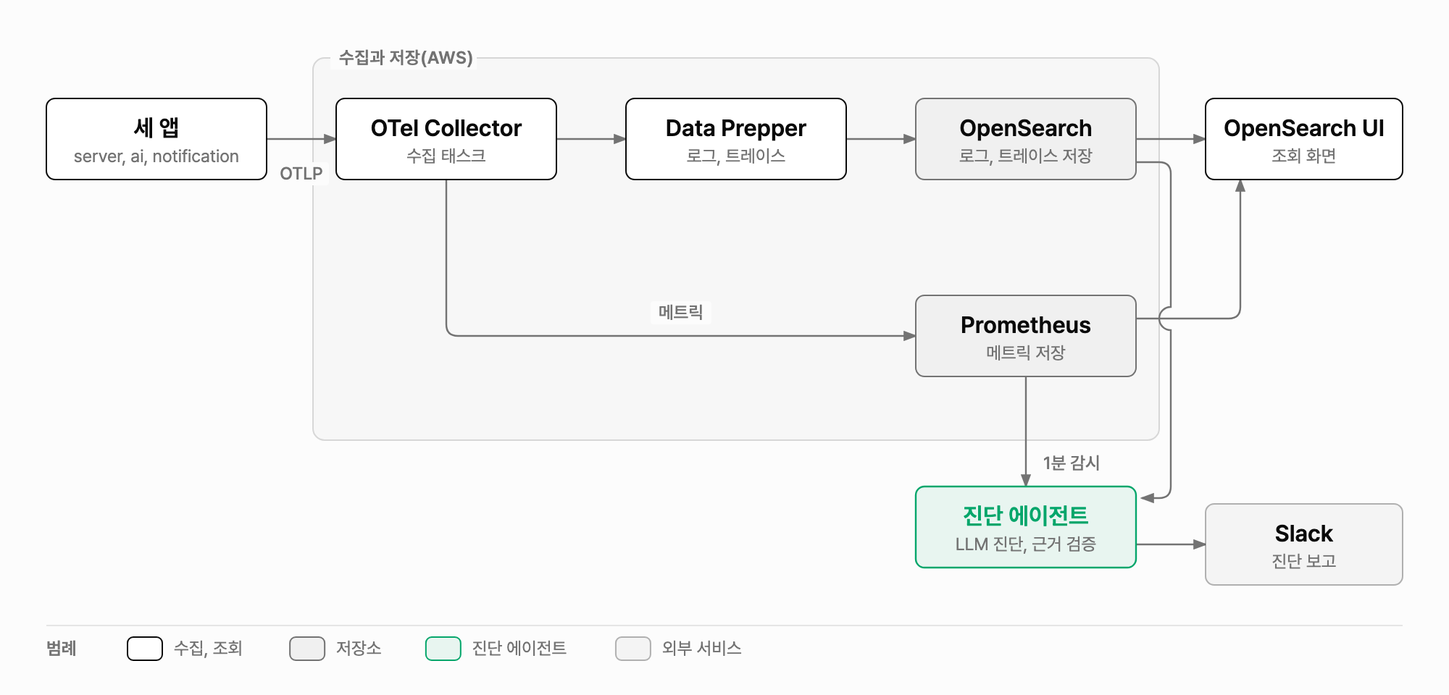
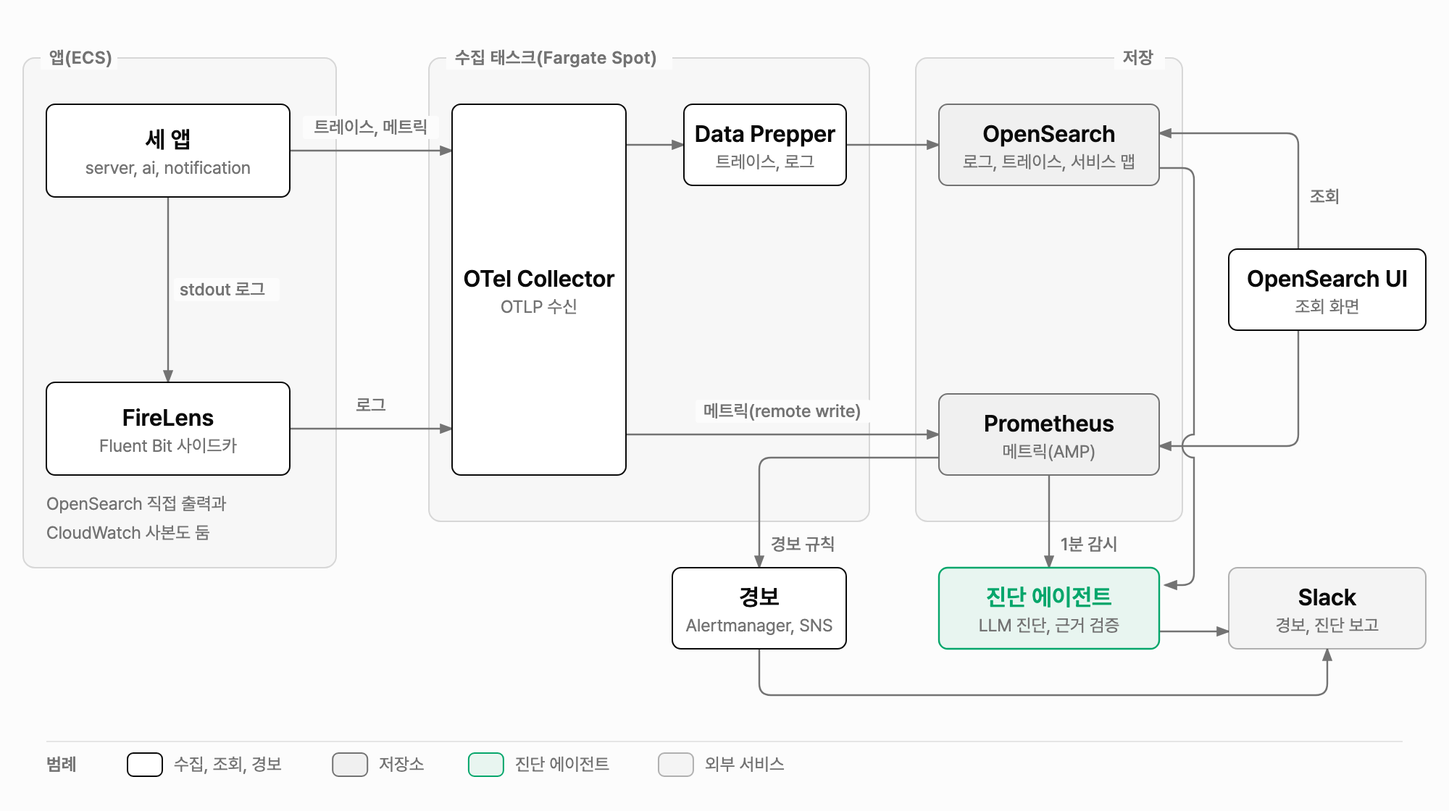
[KNK-2119] Docs: README 수정 3차(배지, 인프라 이력 토글, 도메인별 테이블, CI/CD와 관측 그림, 긴급 수정)
- 인프라 절은 Ver.6을 펼치고 Ver.1~5는 토글 안 발전 과정으로 둠
- 관측 그림을 OpenSearch Observability Stack 배치와 2026-11-14 terraform 구성에 맞춰 다시 그림
- ERD 아래에 64개 테이블의 도메인별 표를 두고 형상 관리에 긴급 수정 경로를 적음

diff --git a/docs/diagrams/cicd-pipeline.html b/docs/diagrams/cicd-pipeline.html
@@ -1,1 +1,1 @@
-<!doctype html><html lang="ko"><head><meta charset="utf-8"><title>CI/CD 파이프라인</title><link rel="stylesheet" href="https://cdn.jsdelivr.net/gh/orioncactus/pretendard@v1.3.9/dist/web/variable/pretendardvariable.min.css"><link href="https://fonts.googleapis.com/css2?family=Geist+Mono:wght@400;500;600&display=swap" rel="stylesheet"><style>body{margin:0;background:#fcfcfc;font-family:'Pretendard Variable', Pretendard, 'Apple SD Gothic Neo', sans-serif;color:#0a0a0a}header{max-width:1000px;margin:32px auto 8px;padding:0 16px}h1{font-size:24px;margin:0 0 4px}p{color:#737373;margin:0}main{max-width:1000px;margin:0 auto 40px}</style></head><body><header><h1>CI/CD 파이프라인</h1><p>레지스트리가 검사와 빌드, 배포를 잇는다</p></header><main><svg xmlns="http://www.w3.org/2000/svg" viewBox="0 0 1000 584" width="1000" height="584" role="img" aria-labelledby="cicd-pipeline-title cicd-pipeline-desc"><title id="cicd-pipeline-title">CI/CD 파이프라인</title><desc id="cicd-pipeline-desc">PR 검사와 이미지 빌드, 레지스트리, 최신 커밋 확인, 무중단 교체, 헬스와 스모크, latest 태그 이동과 되돌리기로 이어지는 흐름</desc><defs><marker id="cicd-pipeline-arrow" markerWidth="8" markerHeight="6" refX="7" refY="3" orient="auto"><polygon points="0 0, 8 3, 0 6" fill="#737373"/></marker><marker id="cicd-pipeline-arrow-accent" markerWidth="8" markerHeight="6" refX="7" refY="3" orient="auto"><polygon points="0 0, 8 3, 0 6" fill="#05a66b"/></marker><marker id="cicd-pipeline-arrow-link" markerWidth="8" markerHeight="6" refX="7" refY="3" orient="auto"><polygon points="0 0, 8 3, 0 6" fill="#1f8a65"/></marker></defs><rect width="100%" height="100%" fill="#fcfcfc"/><rect x="16" y="40" width="512" height="464" rx="8" fill="rgba(10,10,10,0.02)" stroke="rgba(10,10,10,0.14)" stroke-width="1"/><rect x="28" y="32" width="72" height="16" fill="#fcfcfc"/><text x="34" y="44" font-family="'Pretendard Variable', Pretendard, 'Apple SD Gothic Neo', sans-serif" font-size="12" font-weight="600" fill="#737373" letter-spacing="0.02em">검사와 빌드</text><rect x="560" y="40" width="424" height="464" rx="8" fill="rgba(10,10,10,0.02)" stroke="rgba(10,10,10,0.14)" stroke-width="1"/><rect x="937" y="32" width="35" height="16" fill="#fcfcfc"/><text x="943" y="44" font-family="'Pretendard Variable', Pretendard, 'Apple SD Gothic Neo', sans-serif" font-size="12" font-weight="600" fill="#737373" letter-spacing="0.02em">배포</text><path d="M 136,120 L 160,120" fill="none" stroke="#737373" stroke-width="1.2" marker-end="url(#cicd-pipeline-arrow)"/><path d="M 104,144 L 104,224 Q 104,232 112,232 L 160,232" fill="none" stroke="#737373" stroke-width="1.2" marker-end="url(#cicd-pipeline-arrow)"/><path d="M 72,144 L 72,336 Q 72,344 80,344 L 160,344" fill="none" stroke="#737373" stroke-width="1.2" marker-end="url(#cicd-pipeline-arrow)"/><path d="M 280,120 L 304,120" fill="none" stroke="#737373" stroke-width="1.2" marker-end="url(#cicd-pipeline-arrow)"/><path d="M 440,120 L 472,120" fill="none" stroke="#737373" stroke-width="1.2" marker-end="url(#cicd-pipeline-arrow)"/><path d="M 600,120 L 648,120" fill="none" stroke="#737373" stroke-width="1.2" marker-end="url(#cicd-pipeline-arrow)"/><path d="M 760,120 L 816,120" fill="none" stroke="#737373" stroke-width="1.2" marker-end="url(#cicd-pipeline-arrow)"/><path d="M 704,152 L 704,208" fill="none" stroke="#737373" stroke-width="1.2" marker-end="url(#cicd-pipeline-arrow)"/><path d="M 704,264 L 704,312" fill="none" stroke="#737373" stroke-width="1.2" marker-end="url(#cicd-pipeline-arrow)"/><path d="M 760,344 L 816,344" fill="none" stroke="#737373" stroke-width="1.2" marker-end="url(#cicd-pipeline-arrow)"/><path d="M 704,376 L 704,424" fill="none" stroke="#737373" stroke-width="1.2" stroke-dasharray="5,4" marker-end="url(#cicd-pipeline-arrow)"/><rect x="40" y="96" width="96" height="48" rx="24.0" fill="#fcfcfc"/><rect x="40" y="96" width="96" height="48" rx="24.0" fill="rgba(115,115,115,0.10)" stroke="#b3b3b3" stroke-width="1"/><text x="88" y="126" text-anchor="middle" font-family="'Pretendard Variable', Pretendard, 'Apple SD Gothic Neo', sans-serif" font-size="16" font-weight="600" fill="#0a0a0a">PR</text><rect x="160" y="92" width="120" height="56" rx="6" fill="#fcfcfc"/><rect x="160" y="92" width="120" height="56" rx="6" fill="#ffffff" stroke="#0a0a0a" stroke-width="1"/><text x="220" y="118" text-anchor="middle" font-family="'Pretendard Variable', Pretendard, 'Apple SD Gothic Neo', sans-serif" font-size="16" font-weight="600" fill="#0a0a0a">테스트</text><text x="220" y="136" text-anchor="middle" font-family="'Pretendard Variable', Pretendard, 'Apple SD Gothic Neo', sans-serif" font-size="12" fill="#737373">H2, Testcontainers</text><rect x="160" y="204" width="120" height="56" rx="6" fill="#fcfcfc"/><rect x="160" y="204" width="120" height="56" rx="6" fill="#ffffff" stroke="#0a0a0a" stroke-width="1"/><text x="220" y="230" text-anchor="middle" font-family="'Pretendard Variable', Pretendard, 'Apple SD Gothic Neo', sans-serif" font-size="16" font-weight="600" fill="#0a0a0a">보안 스캔</text><text x="220" y="248" text-anchor="middle" font-family="'Pretendard Variable', Pretendard, 'Apple SD Gothic Neo', sans-serif" font-size="12" fill="#737373">gitleaks, CodeQL</text><rect x="160" y="316" width="120" height="56" rx="6" fill="#fcfcfc"/><rect x="160" y="316" width="120" height="56" rx="6" fill="#ffffff" stroke="#0a0a0a" stroke-width="1"/><text x="220" y="342" text-anchor="middle" font-family="'Pretendard Variable', Pretendard, 'Apple SD Gothic Neo', sans-serif" font-size="16" font-weight="600" fill="#0a0a0a">DB 문서 검사</text><text x="220" y="360" text-anchor="middle" font-family="'Pretendard Variable', Pretendard, 'Apple SD Gothic Neo', sans-serif" font-size="12" fill="#737373">tbls diff</text><rect x="304" y="92" width="136" height="56" rx="6" fill="#fcfcfc"/><rect x="304" y="92" width="136" height="56" rx="6" fill="#ffffff" stroke="#0a0a0a" stroke-width="1"/><text x="372" y="118" text-anchor="middle" font-family="'Pretendard Variable', Pretendard, 'Apple SD Gothic Neo', sans-serif" font-size="16" font-weight="600" fill="#0a0a0a">이미지 빌드</text><text x="372" y="136" text-anchor="middle" font-family="'Pretendard Variable', Pretendard, 'Apple SD Gothic Neo', sans-serif" font-size="12" fill="#737373">amd64, arm64</text><rect x="472" y="92" width="128" height="56" rx="6" fill="#fcfcfc"/><rect x="472" y="92" width="128" height="56" rx="6" fill="rgba(10,10,10,0.05)" stroke="#737373" stroke-width="1"/><text x="536" y="118" text-anchor="middle" font-family="'Pretendard Variable', Pretendard, 'Apple SD Gothic Neo', sans-serif" font-size="16" font-weight="600" fill="#0a0a0a">레지스트리</text><text x="536" y="136" text-anchor="middle" font-family="'Pretendard Variable', Pretendard, 'Apple SD Gothic Neo', sans-serif" font-size="12" fill="#737373">불변 태그 sha7</text><polygon points="704,88.0 760.0,120 704,152.0 648.0,120" fill="#fcfcfc"/><polygon points="704,88.0 760.0,120 704,152.0 648.0,120" fill="#ffffff" stroke="#0a0a0a" stroke-width="1"/><text x="704" y="125" text-anchor="middle" font-family="'Pretendard Variable', Pretendard, 'Apple SD Gothic Neo', sans-serif" font-size="14" font-weight="600" fill="#0a0a0a">최신 커밋?</text><rect x="816" y="92" width="152" height="56" rx="6" fill="#fcfcfc"/><rect x="816" y="92" width="152" height="56" rx="6" fill="rgba(10,10,10,0.02)" stroke="rgba(10,10,10,0.35)" stroke-width="1" stroke-dasharray="4,3"/><text x="892" y="118" text-anchor="middle" font-family="'Pretendard Variable', Pretendard, 'Apple SD Gothic Neo', sans-serif" font-size="16" font-weight="600" fill="#0a0a0a">건너뜀</text><text x="892" y="136" text-anchor="middle" font-family="'Pretendard Variable', Pretendard, 'Apple SD Gothic Neo', sans-serif" font-size="12" fill="#737373">최신 커밋 실행이 배포</text><rect x="632" y="208" width="144" height="56" rx="6" fill="#fcfcfc"/><rect x="632" y="208" width="144" height="56" rx="6" fill="#ffffff" stroke="#0a0a0a" stroke-width="1"/><text x="704" y="234" text-anchor="middle" font-family="'Pretendard Variable', Pretendard, 'Apple SD Gothic Neo', sans-serif" font-size="16" font-weight="600" fill="#0a0a0a">무중단 교체</text><text x="704" y="252" text-anchor="middle" font-family="'Pretendard Variable', Pretendard, 'Apple SD Gothic Neo', sans-serif" font-size="12" fill="#737373">헬스 통과 뒤 전환</text><polygon points="704,312.0 760.0,344 704,376.0 648.0,344" fill="#fcfcfc"/><polygon points="704,312.0 760.0,344 704,376.0 648.0,344" fill="#ffffff" stroke="#0a0a0a" stroke-width="1"/><text x="704" y="349" text-anchor="middle" font-family="'Pretendard Variable', Pretendard, 'Apple SD Gothic Neo', sans-serif" font-size="14" font-weight="600" fill="#0a0a0a">헬스, 스모크</text><rect x="816" y="316" width="152" height="56" rx="6" fill="#fcfcfc"/><rect x="816" y="316" width="152" height="56" rx="6" fill="rgba(5,166,107,0.08)" stroke="#05a66b" stroke-width="1.2"/><text x="892" y="342" text-anchor="middle" font-family="'Pretendard Variable', Pretendard, 'Apple SD Gothic Neo', sans-serif" font-size="16" font-weight="600" fill="#05a66b">latest 태그 이동</text><text x="892" y="360" text-anchor="middle" font-family="'Pretendard Variable', Pretendard, 'Apple SD Gothic Neo', sans-serif" font-size="12" fill="#737373">성공한 이미지만</text><rect x="632" y="424" width="144" height="56" rx="6" fill="#fcfcfc"/><rect x="632" y="424" width="144" height="56" rx="6" fill="rgba(10,10,10,0.02)" stroke="rgba(10,10,10,0.35)" stroke-width="1" stroke-dasharray="4,3"/><text x="704" y="450" text-anchor="middle" font-family="'Pretendard Variable', Pretendard, 'Apple SD Gothic Neo', sans-serif" font-size="16" font-weight="600" fill="#0a0a0a">되돌리기</text><text x="704" y="468" text-anchor="middle" font-family="'Pretendard Variable', Pretendard, 'Apple SD Gothic Neo', sans-serif" font-size="12" fill="#737373">직전 이미지로</text><rect x="767" y="96" width="42" height="16" rx="2" fill="#fcfcfc"/><text x="788" y="108" text-anchor="middle" font-family="'Pretendard Variable', Pretendard, 'Apple SD Gothic Neo', sans-serif" font-size="12" font-weight="500" fill="#737373">아니오</text><rect x="712" y="176" width="19" height="16" rx="2" fill="#fcfcfc"/><text x="716" y="188" text-anchor="start" font-family="'Pretendard Variable', Pretendard, 'Apple SD Gothic Neo', sans-serif" font-size="12" font-weight="500" fill="#737373">예</text><rect x="773" y="320" width="31" height="16" rx="2" fill="#fcfcfc"/><text x="788" y="332" text-anchor="middle" font-family="'Pretendard Variable', Pretendard, 'Apple SD Gothic Neo', sans-serif" font-size="12" font-weight="500" fill="#737373">통과</text><rect x="712" y="392" width="31" height="16" rx="2" fill="#fcfcfc"/><text x="716" y="404" text-anchor="start" font-family="'Pretendard Variable', Pretendard, 'Apple SD Gothic Neo', sans-serif" font-size="12" font-weight="500" fill="#737373">실패</text><line x1="32" y1="536" x2="968" y2="536" stroke="rgba(10,10,10,0.12)" stroke-width="0.8"/><text x="32" y="556" font-family="'Pretendard Variable', Pretendard, 'Apple SD Gothic Neo', sans-serif" font-size="12" font-weight="600" fill="#737373">범례</text><rect x="88" y="544" width="24" height="16" rx="4" fill="#ffffff" stroke="#0a0a0a" stroke-width="1"/><text x="120" y="556" font-family="'Pretendard Variable', Pretendard, 'Apple SD Gothic Neo', sans-serif" font-size="12" fill="#737373">단계</text><rect x="170.56" y="544" width="24" height="16" rx="4" fill="rgba(10,10,10,0.05)" stroke="#737373" stroke-width="1"/><text x="202.56" y="556" font-family="'Pretendard Variable', Pretendard, 'Apple SD Gothic Neo', sans-serif" font-size="12" fill="#737373">산출물</text><rect x="264.4" y="544" width="24" height="16" rx="4" fill="rgba(10,10,10,0.02)" stroke="rgba(10,10,10,0.35)" stroke-width="1" stroke-dasharray="4,3"/><text x="296.4" y="556" font-family="'Pretendard Variable', Pretendard, 'Apple SD Gothic Neo', sans-serif" font-size="12" fill="#737373">조건부 단계</text><rect x="384.15999999999997" y="544" width="24" height="16" rx="4" fill="rgba(5,166,107,0.08)" stroke="#05a66b" stroke-width="1"/><text x="416.15999999999997" y="556" font-family="'Pretendard Variable', Pretendard, 'Apple SD Gothic Neo', sans-serif" font-size="12" fill="#737373">배포 완료</text></svg></main></body></html>
+<!doctype html><html lang="ko"><head><meta charset="utf-8"><title>CI/CD 파이프라인</title><link rel="stylesheet" href="https://cdn.jsdelivr.net/gh/orioncactus/pretendard@v1.3.9/dist/web/variable/pretendardvariable.min.css"><link href="https://fonts.googleapis.com/css2?family=Geist+Mono:wght@400;500;600&display=swap" rel="stylesheet"><style>body{margin:0;background:#fcfcfc;font-family:'Pretendard Variable', Pretendard, 'Apple SD Gothic Neo', sans-serif;color:#0a0a0a}header{max-width:1000px;margin:32px auto 8px;padding:0 16px}h1{font-size:24px;margin:0 0 4px}p{color:#737373;margin:0}main{max-width:1000px;margin:0 auto 40px}</style></head><body><header><h1>CI/CD 파이프라인</h1><p>레지스트리가 검사와 빌드, 배포를 잇는다</p></header><main><svg xmlns="http://www.w3.org/2000/svg" viewBox="0 0 1000 584" width="1000" height="584" role="img" aria-labelledby="cicd-pipeline-title cicd-pipeline-desc"><title id="cicd-pipeline-title">CI/CD 파이프라인</title><desc id="cicd-pipeline-desc">PR 검사와 이미지 빌드, 레지스트리, 최신 커밋 확인, 무중단 교체, 헬스와 스모크, latest 태그 이동과 되돌리기로 이어지는 흐름</desc><defs><marker id="cicd-pipeline-arrow" markerWidth="8" markerHeight="6" refX="7" refY="3" orient="auto"><polygon points="0 0, 8 3, 0 6" fill="#737373"/></marker><marker id="cicd-pipeline-arrow-accent" markerWidth="8" markerHeight="6" refX="7" refY="3" orient="auto"><polygon points="0 0, 8 3, 0 6" fill="#05a66b"/></marker><marker id="cicd-pipeline-arrow-link" markerWidth="8" markerHeight="6" refX="7" refY="3" orient="auto"><polygon points="0 0, 8 3, 0 6" fill="#1f8a65"/></marker></defs><rect width="100%" height="100%" fill="#fcfcfc"/><rect x="16" y="40" width="440" height="464" rx="8" fill="rgba(10,10,10,0.02)" stroke="rgba(10,10,10,0.14)" stroke-width="1"/><rect x="28" y="32" width="72" height="16" fill="#fcfcfc"/><text x="34" y="44" font-family="'Pretendard Variable', Pretendard, 'Apple SD Gothic Neo', sans-serif" font-size="12" font-weight="600" fill="#737373" letter-spacing="0.02em">검사와 빌드</text><rect x="632" y="40" width="352" height="464" rx="8" fill="rgba(10,10,10,0.02)" stroke="rgba(10,10,10,0.14)" stroke-width="1"/><rect x="937" y="32" width="35" height="16" fill="#fcfcfc"/><text x="943" y="44" font-family="'Pretendard Variable', Pretendard, 'Apple SD Gothic Neo', sans-serif" font-size="12" font-weight="600" fill="#737373" letter-spacing="0.02em">배포</text><path d="M 112,120 L 160,120" fill="none" stroke="#737373" stroke-width="1.2" marker-end="url(#cicd-pipeline-arrow)"/><path d="M 112,232 L 160,232" fill="none" stroke="#737373" stroke-width="1.2" marker-end="url(#cicd-pipeline-arrow)"/><path d="M 112,344 L 160,344" fill="none" stroke="#737373" stroke-width="1.2" marker-end="url(#cicd-pipeline-arrow)"/><path d="M 280,120 L 304,120" fill="none" stroke="#737373" stroke-width="1.2" marker-end="url(#cicd-pipeline-arrow)"/><path d="M 440,120 L 488,120" fill="none" stroke="#737373" stroke-width="1.2" marker-end="url(#cicd-pipeline-arrow)"/><path d="M 600,120 L 648,120" fill="none" stroke="#737373" stroke-width="1.2" marker-end="url(#cicd-pipeline-arrow)"/><path d="M 760,120 L 816,120" fill="none" stroke="#737373" stroke-width="1.2" marker-end="url(#cicd-pipeline-arrow)"/><path d="M 704,152 L 704,208" fill="none" stroke="#737373" stroke-width="1.2" marker-end="url(#cicd-pipeline-arrow)"/><path d="M 704,264 L 704,312" fill="none" stroke="#737373" stroke-width="1.2" marker-end="url(#cicd-pipeline-arrow)"/><path d="M 760,344 L 816,344" fill="none" stroke="#737373" stroke-width="1.2" marker-end="url(#cicd-pipeline-arrow)"/><path d="M 704,376 L 704,424" fill="none" stroke="#737373" stroke-width="1.2" stroke-dasharray="5,4" marker-end="url(#cicd-pipeline-arrow)"/><rect x="40" y="92" width="72" height="280" rx="24" fill="#fcfcfc"/><rect x="40" y="92" width="72" height="280" rx="24" fill="rgba(115,115,115,0.10)" stroke="#b3b3b3" stroke-width="1"/><text x="76" y="238" text-anchor="middle" font-family="'Pretendard Variable', Pretendard, 'Apple SD Gothic Neo', sans-serif" font-size="16" font-weight="600" fill="#0a0a0a">PR</text><rect x="160" y="92" width="120" height="56" rx="6" fill="#fcfcfc"/><rect x="160" y="92" width="120" height="56" rx="6" fill="#ffffff" stroke="#0a0a0a" stroke-width="1"/><text x="220" y="118" text-anchor="middle" font-family="'Pretendard Variable', Pretendard, 'Apple SD Gothic Neo', sans-serif" font-size="16" font-weight="600" fill="#0a0a0a">테스트</text><text x="220" y="136" text-anchor="middle" font-family="'Pretendard Variable', Pretendard, 'Apple SD Gothic Neo', sans-serif" font-size="12" fill="#737373">H2, Testcontainers</text><rect x="160" y="204" width="120" height="56" rx="6" fill="#fcfcfc"/><rect x="160" y="204" width="120" height="56" rx="6" fill="#ffffff" stroke="#0a0a0a" stroke-width="1"/><text x="220" y="230" text-anchor="middle" font-family="'Pretendard Variable', Pretendard, 'Apple SD Gothic Neo', sans-serif" font-size="16" font-weight="600" fill="#0a0a0a">보안 스캔</text><text x="220" y="248" text-anchor="middle" font-family="'Pretendard Variable', Pretendard, 'Apple SD Gothic Neo', sans-serif" font-size="12" fill="#737373">gitleaks, CodeQL</text><rect x="160" y="316" width="120" height="56" rx="6" fill="#fcfcfc"/><rect x="160" y="316" width="120" height="56" rx="6" fill="#ffffff" stroke="#0a0a0a" stroke-width="1"/><text x="220" y="342" text-anchor="middle" font-family="'Pretendard Variable', Pretendard, 'Apple SD Gothic Neo', sans-serif" font-size="16" font-weight="600" fill="#0a0a0a">DB 문서 검사</text><text x="220" y="360" text-anchor="middle" font-family="'Pretendard Variable', Pretendard, 'Apple SD Gothic Neo', sans-serif" font-size="12" fill="#737373">tbls diff</text><rect x="304" y="92" width="136" height="56" rx="6" fill="#fcfcfc"/><rect x="304" y="92" width="136" height="56" rx="6" fill="#ffffff" stroke="#0a0a0a" stroke-width="1"/><text x="372" y="118" text-anchor="middle" font-family="'Pretendard Variable', Pretendard, 'Apple SD Gothic Neo', sans-serif" font-size="16" font-weight="600" fill="#0a0a0a">이미지 빌드</text><text x="372" y="136" text-anchor="middle" font-family="'Pretendard Variable', Pretendard, 'Apple SD Gothic Neo', sans-serif" font-size="12" fill="#737373">amd64, arm64</text><rect x="488" y="92" width="112" height="56" rx="6" fill="#fcfcfc"/><rect x="488" y="92" width="112" height="56" rx="6" fill="rgba(10,10,10,0.05)" stroke="#737373" stroke-width="1"/><text x="544" y="118" text-anchor="middle" font-family="'Pretendard Variable', Pretendard, 'Apple SD Gothic Neo', sans-serif" font-size="16" font-weight="600" fill="#0a0a0a">레지스트리</text><text x="544" y="136" text-anchor="middle" font-family="'Pretendard Variable', Pretendard, 'Apple SD Gothic Neo', sans-serif" font-size="12" fill="#737373">불변 태그 sha7</text><polygon points="704,88.0 760.0,120 704,152.0 648.0,120" fill="#fcfcfc"/><polygon points="704,88.0 760.0,120 704,152.0 648.0,120" fill="#ffffff" stroke="#0a0a0a" stroke-width="1"/><text x="704" y="125" text-anchor="middle" font-family="'Pretendard Variable', Pretendard, 'Apple SD Gothic Neo', sans-serif" font-size="14" font-weight="600" fill="#0a0a0a">최신 커밋?</text><rect x="816" y="92" width="152" height="56" rx="6" fill="#fcfcfc"/><rect x="816" y="92" width="152" height="56" rx="6" fill="rgba(10,10,10,0.02)" stroke="rgba(10,10,10,0.35)" stroke-width="1" stroke-dasharray="4,3"/><text x="892" y="118" text-anchor="middle" font-family="'Pretendard Variable', Pretendard, 'Apple SD Gothic Neo', sans-serif" font-size="16" font-weight="600" fill="#0a0a0a">건너뜀</text><text x="892" y="136" text-anchor="middle" font-family="'Pretendard Variable', Pretendard, 'Apple SD Gothic Neo', sans-serif" font-size="12" fill="#737373">최신 커밋 실행이 배포</text><rect x="632" y="208" width="144" height="56" rx="6" fill="#fcfcfc"/><rect x="632" y="208" width="144" height="56" rx="6" fill="#ffffff" stroke="#0a0a0a" stroke-width="1"/><text x="704" y="234" text-anchor="middle" font-family="'Pretendard Variable', Pretendard, 'Apple SD Gothic Neo', sans-serif" font-size="16" font-weight="600" fill="#0a0a0a">무중단 교체</text><text x="704" y="252" text-anchor="middle" font-family="'Pretendard Variable', Pretendard, 'Apple SD Gothic Neo', sans-serif" font-size="12" fill="#737373">헬스 통과 뒤 전환</text><polygon points="704,312.0 760.0,344 704,376.0 648.0,344" fill="#fcfcfc"/><polygon points="704,312.0 760.0,344 704,376.0 648.0,344" fill="#ffffff" stroke="#0a0a0a" stroke-width="1"/><text x="704" y="349" text-anchor="middle" font-family="'Pretendard Variable', Pretendard, 'Apple SD Gothic Neo', sans-serif" font-size="14" font-weight="600" fill="#0a0a0a">헬스, 스모크</text><rect x="816" y="316" width="152" height="56" rx="6" fill="#fcfcfc"/><rect x="816" y="316" width="152" height="56" rx="6" fill="rgba(5,166,107,0.08)" stroke="#05a66b" stroke-width="1.2"/><text x="892" y="342" text-anchor="middle" font-family="'Pretendard Variable', Pretendard, 'Apple SD Gothic Neo', sans-serif" font-size="16" font-weight="600" fill="#05a66b">latest 태그 이동</text><text x="892" y="360" text-anchor="middle" font-family="'Pretendard Variable', Pretendard, 'Apple SD Gothic Neo', sans-serif" font-size="12" fill="#737373">성공한 이미지만</text><rect x="632" y="424" width="144" height="56" rx="6" fill="#fcfcfc"/><rect x="632" y="424" width="144" height="56" rx="6" fill="rgba(10,10,10,0.02)" stroke="rgba(10,10,10,0.35)" stroke-width="1" stroke-dasharray="4,3"/><text x="704" y="450" text-anchor="middle" font-family="'Pretendard Variable', Pretendard, 'Apple SD Gothic Neo', sans-serif" font-size="16" font-weight="600" fill="#0a0a0a">되돌리기</text><text x="704" y="468" text-anchor="middle" font-family="'Pretendard Variable', Pretendard, 'Apple SD Gothic Neo', sans-serif" font-size="12" fill="#737373">직전 이미지로</text><rect x="767" y="96" width="42" height="16" rx="2" fill="#fcfcfc"/><text x="788" y="108" text-anchor="middle" font-family="'Pretendard Variable', Pretendard, 'Apple SD Gothic Neo', sans-serif" font-size="12" font-weight="500" fill="#737373">아니오</text><rect x="712" y="176" width="19" height="16" rx="2" fill="#fcfcfc"/><text x="716" y="188" text-anchor="start" font-family="'Pretendard Variable', Pretendard, 'Apple SD Gothic Neo', sans-serif" font-size="12" font-weight="500" fill="#737373">예</text><rect x="773" y="320" width="31" height="16" rx="2" fill="#fcfcfc"/><text x="788" y="332" text-anchor="middle" font-family="'Pretendard Variable', Pretendard, 'Apple SD Gothic Neo', sans-serif" font-size="12" font-weight="500" fill="#737373">통과</text><rect x="712" y="392" width="31" height="16" rx="2" fill="#fcfcfc"/><text x="716" y="404" text-anchor="start" font-family="'Pretendard Variable', Pretendard, 'Apple SD Gothic Neo', sans-serif" font-size="12" font-weight="500" fill="#737373">실패</text><line x1="32" y1="536" x2="968" y2="536" stroke="rgba(10,10,10,0.12)" stroke-width="0.8"/><text x="32" y="556" font-family="'Pretendard Variable', Pretendard, 'Apple SD Gothic Neo', sans-serif" font-size="12" font-weight="600" fill="#737373">범례</text><rect x="88" y="544" width="24" height="16" rx="4" fill="#ffffff" stroke="#0a0a0a" stroke-width="1"/><text x="120" y="556" font-family="'Pretendard Variable', Pretendard, 'Apple SD Gothic Neo', sans-serif" font-size="12" fill="#737373">단계</text><rect x="170.56" y="544" width="24" height="16" rx="4" fill="rgba(10,10,10,0.05)" stroke="#737373" stroke-width="1"/><text x="202.56" y="556" font-family="'Pretendard Variable', Pretendard, 'Apple SD Gothic Neo', sans-serif" font-size="12" fill="#737373">산출물</text><rect x="264.4" y="544" width="24" height="16" rx="4" fill="rgba(10,10,10,0.02)" stroke="rgba(10,10,10,0.35)" stroke-width="1" stroke-dasharray="4,3"/><text x="296.4" y="556" font-family="'Pretendard Variable', Pretendard, 'Apple SD Gothic Neo', sans-serif" font-size="12" fill="#737373">조건부 단계</text><rect x="384.15999999999997" y="544" width="24" height="16" rx="4" fill="rgba(5,166,107,0.08)" stroke="#05a66b" stroke-width="1"/><text x="416.15999999999997" y="556" font-family="'Pretendard Variable', Pretendard, 'Apple SD Gothic Neo', sans-serif" font-size="12" fill="#737373">배포 완료</text></svg></main></body></html>

diff --git a/docs/diagrams/observability.html b/docs/diagrams/observability.html
@@ -1,1 +1,1 @@
-<!doctype html><html lang="ko"><head><meta charset="utf-8"><title>관측과 장애 진단</title><link rel="stylesheet" href="https://cdn.jsdelivr.net/gh/orioncactus/pretendard@v1.3.9/dist/web/variable/pretendardvariable.min.css"><link href="https://fonts.googleapis.com/css2?family=Geist+Mono:wght@400;500;600&display=swap" rel="stylesheet"><style>body{margin:0;background:#fcfcfc;font-family:'Pretendard Variable', Pretendard, 'Apple SD Gothic Neo', sans-serif;color:#0a0a0a}header{max-width:1000px;margin:32px auto 8px;padding:0 16px}h1{font-size:24px;margin:0 0 4px}p{color:#737373;margin:0}main{max-width:1000px;margin:0 auto 40px}</style></head><body><header><h1>관측과 장애 진단</h1><p>2026년 11월 14일 기준</p></header><main><svg xmlns="http://www.w3.org/2000/svg" viewBox="0 0 1000 480" width="1000" height="480" role="img" aria-labelledby="observability-title observability-desc"><title id="observability-title">관측과 장애 진단</title><desc id="observability-desc">세 앱의 OTLP가 OTel Collector에서 로그, 트레이스와 메트릭으로 나뉘어 OpenSearch와 Prometheus에 저장되고, 조회 화면과 진단 에이전트, Slack 보고로 이어지는 흐름</desc><defs><marker id="observability-arrow" markerWidth="8" markerHeight="6" refX="7" refY="3" orient="auto"><polygon points="0 0, 8 3, 0 6" fill="#737373"/></marker><marker id="observability-arrow-accent" markerWidth="8" markerHeight="6" refX="7" refY="3" orient="auto"><polygon points="0 0, 8 3, 0 6" fill="#05a66b"/></marker><marker id="observability-arrow-link" markerWidth="8" markerHeight="6" refX="7" refY="3" orient="auto"><polygon points="0 0, 8 3, 0 6" fill="#1f8a65"/></marker></defs><rect width="100%" height="100%" fill="#fcfcfc"/><rect x="216" y="40" width="584" height="264" rx="8" fill="rgba(10,10,10,0.02)" stroke="rgba(10,10,10,0.14)" stroke-width="1"/><rect x="228" y="32" width="101" height="16" fill="#fcfcfc"/><text x="234" y="44" font-family="'Pretendard Variable', Pretendard, 'Apple SD Gothic Neo', sans-serif" font-size="12" font-weight="600" fill="#737373" letter-spacing="0.02em">수집과 저장(AWS)</text><path d="M 184,96 L 232,96" fill="none" stroke="#737373" stroke-width="1.2" marker-end="url(#observability-arrow)"/><path d="M 384,96 L 432,96" fill="none" stroke="#737373" stroke-width="1.2" marker-end="url(#observability-arrow)"/><path d="M 584,96 L 632,96" fill="none" stroke="#737373" stroke-width="1.2" marker-end="url(#observability-arrow)"/><path d="M 308,124 L 308,224 Q 308,232 316,232 L 632,232" fill="none" stroke="#737373" stroke-width="1.2" marker-end="url(#observability-arrow)"/><path d="M 784,96 L 832,96" fill="none" stroke="#737373" stroke-width="1.2" marker-end="url(#observability-arrow)"/><path d="M 784,220 L 848,220 Q 856,220 856,212 L 856,124" fill="none" stroke="#737373" stroke-width="1.2" marker-end="url(#observability-arrow)"/><path d="M 708,260 L 708,336" fill="none" stroke="#737373" stroke-width="1.2" marker-end="url(#observability-arrow)"/><path d="M 784,112 L 800,112 Q 808,112 808,120 L 808,212 A 8,8 0 0,0 808,228 L 808,336 Q 808,344 800,344 L 788,344" fill="none" stroke="#737373" stroke-width="1.2" marker-end="url(#observability-arrow)"/><path d="M 784,376 L 832,376" fill="none" stroke="#737373" stroke-width="1.2" marker-end="url(#observability-arrow)"/><rect x="32" y="68" width="152" height="56" rx="6" fill="#fcfcfc"/><rect x="32" y="68" width="152" height="56" rx="6" fill="#ffffff" stroke="#0a0a0a" stroke-width="1"/><text x="108" y="94" text-anchor="middle" font-family="'Pretendard Variable', Pretendard, 'Apple SD Gothic Neo', sans-serif" font-size="16" font-weight="600" fill="#0a0a0a">세 앱</text><text x="108" y="112" text-anchor="middle" font-family="'Pretendard Variable', Pretendard, 'Apple SD Gothic Neo', sans-serif" font-size="12" fill="#737373">server, ai, notification</text><rect x="232" y="68" width="152" height="56" rx="6" fill="#fcfcfc"/><rect x="232" y="68" width="152" height="56" rx="6" fill="#ffffff" stroke="#0a0a0a" stroke-width="1"/><text x="308" y="94" text-anchor="middle" font-family="'Pretendard Variable', Pretendard, 'Apple SD Gothic Neo', sans-serif" font-size="16" font-weight="600" fill="#0a0a0a">OTel Collector</text><text x="308" y="112" text-anchor="middle" font-family="'Pretendard Variable', Pretendard, 'Apple SD Gothic Neo', sans-serif" font-size="12" fill="#737373">수집 태스크</text><rect x="432" y="68" width="152" height="56" rx="6" fill="#fcfcfc"/><rect x="432" y="68" width="152" height="56" rx="6" fill="#ffffff" stroke="#0a0a0a" stroke-width="1"/><text x="508" y="94" text-anchor="middle" font-family="'Pretendard Variable', Pretendard, 'Apple SD Gothic Neo', sans-serif" font-size="16" font-weight="600" fill="#0a0a0a">Data Prepper</text><text x="508" y="112" text-anchor="middle" font-family="'Pretendard Variable', Pretendard, 'Apple SD Gothic Neo', sans-serif" font-size="12" fill="#737373">로그, 트레이스</text><rect x="632" y="68" width="152" height="56" rx="6" fill="#fcfcfc"/><rect x="632" y="68" width="152" height="56" rx="6" fill="rgba(10,10,10,0.05)" stroke="#737373" stroke-width="1"/><text x="708" y="94" text-anchor="middle" font-family="'Pretendard Variable', Pretendard, 'Apple SD Gothic Neo', sans-serif" font-size="16" font-weight="600" fill="#0a0a0a">OpenSearch</text><text x="708" y="112" text-anchor="middle" font-family="'Pretendard Variable', Pretendard, 'Apple SD Gothic Neo', sans-serif" font-size="12" fill="#737373">로그, 트레이스 저장</text><rect x="632" y="204" width="152" height="56" rx="6" fill="#fcfcfc"/><rect x="632" y="204" width="152" height="56" rx="6" fill="rgba(10,10,10,0.05)" stroke="#737373" stroke-width="1"/><text x="708" y="230" text-anchor="middle" font-family="'Pretendard Variable', Pretendard, 'Apple SD Gothic Neo', sans-serif" font-size="16" font-weight="600" fill="#0a0a0a">Prometheus</text><text x="708" y="248" text-anchor="middle" font-family="'Pretendard Variable', Pretendard, 'Apple SD Gothic Neo', sans-serif" font-size="12" fill="#737373">메트릭 저장</text><rect x="832" y="68" width="136" height="56" rx="6" fill="#fcfcfc"/><rect x="832" y="68" width="136" height="56" rx="6" fill="#ffffff" stroke="#0a0a0a" stroke-width="1"/><text x="900" y="94" text-anchor="middle" font-family="'Pretendard Variable', Pretendard, 'Apple SD Gothic Neo', sans-serif" font-size="16" font-weight="600" fill="#0a0a0a">OpenSearch UI</text><text x="900" y="112" text-anchor="middle" font-family="'Pretendard Variable', Pretendard, 'Apple SD Gothic Neo', sans-serif" font-size="12" fill="#737373">조회 화면</text><rect x="632" y="336" width="152" height="56" rx="6" fill="#fcfcfc"/><rect x="632" y="336" width="152" height="56" rx="6" fill="rgba(5,166,107,0.08)" stroke="#05a66b" stroke-width="1.2"/><text x="708" y="362" text-anchor="middle" font-family="'Pretendard Variable', Pretendard, 'Apple SD Gothic Neo', sans-serif" font-size="16" font-weight="600" fill="#05a66b">진단 에이전트</text><text x="708" y="380" text-anchor="middle" font-family="'Pretendard Variable', Pretendard, 'Apple SD Gothic Neo', sans-serif" font-size="12" fill="#737373">LLM 진단, 근거 검증</text><rect x="832" y="348" width="136" height="56" rx="6" fill="#fcfcfc"/><rect x="832" y="348" width="136" height="56" rx="6" fill="rgba(10,10,10,0.03)" stroke="rgba(10,10,10,0.30)" stroke-width="1"/><text x="900" y="374" text-anchor="middle" font-family="'Pretendard Variable', Pretendard, 'Apple SD Gothic Neo', sans-serif" font-size="16" font-weight="600" fill="#0a0a0a">Slack</text><text x="900" y="392" text-anchor="middle" font-family="'Pretendard Variable', Pretendard, 'Apple SD Gothic Neo', sans-serif" font-size="12" fill="#737373">진단 보고</text><rect x="189" y="112" width="38" height="16" rx="2" fill="#fcfcfc"/><text x="208" y="124" text-anchor="middle" font-family="'Pretendard Variable', Pretendard, 'Apple SD Gothic Neo', sans-serif" font-size="12" font-weight="500" fill="#737373">OTLP</text><rect x="449" y="208" width="42" height="16" rx="2" fill="#fcfcfc"/><text x="470" y="220" text-anchor="middle" font-family="'Pretendard Variable', Pretendard, 'Apple SD Gothic Neo', sans-serif" font-size="12" font-weight="500" fill="#737373">메트릭</text><rect x="716" y="312" width="53" height="16" rx="2" fill="#fcfcfc"/><text x="720" y="324" text-anchor="start" font-family="'Pretendard Variable', Pretendard, 'Apple SD Gothic Neo', sans-serif" font-size="12" font-weight="500" fill="#737373">1분 감시</text><line x1="32" y1="432" x2="968" y2="432" stroke="rgba(10,10,10,0.12)" stroke-width="0.8"/><text x="32" y="452" font-family="'Pretendard Variable', Pretendard, 'Apple SD Gothic Neo', sans-serif" font-size="12" font-weight="600" fill="#737373">범례</text><rect x="88" y="440" width="24" height="16" rx="4" fill="#ffffff" stroke="#0a0a0a" stroke-width="1"/><text x="120" y="452" font-family="'Pretendard Variable', Pretendard, 'Apple SD Gothic Neo', sans-serif" font-size="12" fill="#737373">수집, 조회</text><rect x="200.07999999999998" y="440" width="24" height="16" rx="4" fill="rgba(10,10,10,0.05)" stroke="#737373" stroke-width="1"/><text x="232.07999999999998" y="452" font-family="'Pretendard Variable', Pretendard, 'Apple SD Gothic Neo', sans-serif" font-size="12" fill="#737373">저장소</text><rect x="293.91999999999996" y="440" width="24" height="16" rx="4" fill="rgba(5,166,107,0.08)" stroke="#05a66b" stroke-width="1"/><text x="325.91999999999996" y="452" font-family="'Pretendard Variable', Pretendard, 'Apple SD Gothic Neo', sans-serif" font-size="12" fill="#737373">진단 에이전트</text><rect x="424.9599999999999" y="440" width="24" height="16" rx="4" fill="rgba(10,10,10,0.03)" stroke="rgba(10,10,10,0.30)" stroke-width="1"/><text x="456.9599999999999" y="452" font-family="'Pretendard Variable', Pretendard, 'Apple SD Gothic Neo', sans-serif" font-size="12" fill="#737373">외부 서비스</text></svg></main></body></html>
+<!doctype html><html lang="ko"><head><meta charset="utf-8"><title>관측과 장애 진단</title><link rel="stylesheet" href="https://cdn.jsdelivr.net/gh/orioncactus/pretendard@v1.3.9/dist/web/variable/pretendardvariable.min.css"><link href="https://fonts.googleapis.com/css2?family=Geist+Mono:wght@400;500;600&display=swap" rel="stylesheet"><style>body{margin:0;background:#fcfcfc;font-family:'Pretendard Variable', Pretendard, 'Apple SD Gothic Neo', sans-serif;color:#0a0a0a}header{max-width:1000px;margin:32px auto 8px;padding:0 16px}h1{font-size:24px;margin:0 0 4px}p{color:#737373;margin:0}main{max-width:1000px;margin:0 auto 40px}</style></head><body><header><h1>관측과 장애 진단</h1><p>2026년 11월 14일 기준</p></header><main><svg xmlns="http://www.w3.org/2000/svg" viewBox="0 0 1000 560" width="1000" height="560" role="img" aria-labelledby="observability-title observability-desc"><title id="observability-title">관측과 장애 진단</title><desc id="observability-desc">세 앱의 트레이스와 메트릭, FireLens가 모은 로그가 수집 태스크의 OTel Collector로 가고, Data Prepper를 거쳐 OpenSearch에, 메트릭은 Prometheus에 저장되며, 조회 화면과 경보, 진단 에이전트가 이를 읽는 2026년 11월 14일 기준 흐름</desc><defs><marker id="observability-arrow" markerWidth="8" markerHeight="6" refX="7" refY="3" orient="auto"><polygon points="0 0, 8 3, 0 6" fill="#737373"/></marker><marker id="observability-arrow-accent" markerWidth="8" markerHeight="6" refX="7" refY="3" orient="auto"><polygon points="0 0, 8 3, 0 6" fill="#05a66b"/></marker><marker id="observability-arrow-link" markerWidth="8" markerHeight="6" refX="7" refY="3" orient="auto"><polygon points="0 0, 8 3, 0 6" fill="#1f8a65"/></marker></defs><rect width="100%" height="100%" fill="#fcfcfc"/><rect x="16" y="40" width="216" height="352" rx="8" fill="rgba(10,10,10,0.02)" stroke="rgba(10,10,10,0.14)" stroke-width="1"/><rect x="28" y="32" width="53" height="16" fill="#fcfcfc"/><text x="34" y="44" font-family="'Pretendard Variable', Pretendard, 'Apple SD Gothic Neo', sans-serif" font-size="12" font-weight="600" fill="#737373" letter-spacing="0.02em">앱(ECS)</text><rect x="296" y="40" width="304" height="320" rx="8" fill="rgba(10,10,10,0.02)" stroke="rgba(10,10,10,0.14)" stroke-width="1"/><rect x="308" y="32" width="156" height="16" fill="#fcfcfc"/><text x="314" y="44" font-family="'Pretendard Variable', Pretendard, 'Apple SD Gothic Neo', sans-serif" font-size="12" font-weight="600" fill="#737373" letter-spacing="0.02em">수집 태스크(Fargate Spot)</text><rect x="632" y="40" width="184" height="320" rx="8" fill="rgba(10,10,10,0.02)" stroke="rgba(10,10,10,0.14)" stroke-width="1"/><rect x="769" y="32" width="35" height="16" fill="#fcfcfc"/><text x="775" y="44" font-family="'Pretendard Variable', Pretendard, 'Apple SD Gothic Neo', sans-serif" font-size="12" font-weight="600" fill="#737373" letter-spacing="0.02em">저장</text><path d="M 116,136 L 116,264" fill="none" stroke="#737373" stroke-width="1.2" marker-end="url(#observability-arrow)"/><path d="M 200,104 L 312,104" fill="none" stroke="#737373" stroke-width="1.2" marker-end="url(#observability-arrow)"/><path d="M 200,296 L 312,296" fill="none" stroke="#737373" stroke-width="1.2" marker-end="url(#observability-arrow)"/><path d="M 432,100 L 472,100" fill="none" stroke="#737373" stroke-width="1.2" marker-end="url(#observability-arrow)"/><path d="M 432,300 L 648,300" fill="none" stroke="#737373" stroke-width="1.2" marker-end="url(#observability-arrow)"/><path d="M 584,100 L 648,100" fill="none" stroke="#737373" stroke-width="1.2" marker-end="url(#observability-arrow)"/><path d="M 896,172 L 896,100 Q 896,92 888,92 L 800,92" fill="none" stroke="#737373" stroke-width="1.2" marker-end="url(#observability-arrow)"/><path d="M 896,228 L 896,300 Q 896,308 888,308 L 800,308" fill="none" stroke="#737373" stroke-width="1.2" marker-end="url(#observability-arrow)"/><path d="M 648,316 L 532,316 Q 524,316 524,324 L 524,392" fill="none" stroke="#737373" stroke-width="1.2" marker-end="url(#observability-arrow)"/><path d="M 524,448 L 524,472 Q 524,480 532,480 L 908,480 Q 916,480 916,472 L 916,448" fill="none" stroke="#737373" stroke-width="1.2" marker-end="url(#observability-arrow)"/><path d="M 724,328 L 724,392" fill="none" stroke="#737373" stroke-width="1.2" marker-end="url(#observability-arrow)"/><path d="M 800,116 L 816,116 Q 824,116 824,124 L 824,300 A 8,8 0 0,0 824,316 L 824,396 Q 824,404 816,404 L 804,404" fill="none" stroke="#737373" stroke-width="1.2" marker-end="url(#observability-arrow)"/><path d="M 800,436 L 848,436" fill="none" stroke="#737373" stroke-width="1.2" marker-end="url(#observability-arrow)"/><rect x="32" y="72" width="168" height="64" rx="6" fill="#fcfcfc"/><rect x="32" y="72" width="168" height="64" rx="6" fill="#ffffff" stroke="#0a0a0a" stroke-width="1"/><text x="116" y="102" text-anchor="middle" font-family="'Pretendard Variable', Pretendard, 'Apple SD Gothic Neo', sans-serif" font-size="16" font-weight="600" fill="#0a0a0a">세 앱</text><text x="116" y="120" text-anchor="middle" font-family="'Pretendard Variable', Pretendard, 'Apple SD Gothic Neo', sans-serif" font-size="12" fill="#737373">server, ai, notification</text><rect x="32" y="264" width="168" height="64" rx="6" fill="#fcfcfc"/><rect x="32" y="264" width="168" height="64" rx="6" fill="#ffffff" stroke="#0a0a0a" stroke-width="1"/><text x="116" y="294" text-anchor="middle" font-family="'Pretendard Variable', Pretendard, 'Apple SD Gothic Neo', sans-serif" font-size="16" font-weight="600" fill="#0a0a0a">FireLens</text><text x="116" y="312" text-anchor="middle" font-family="'Pretendard Variable', Pretendard, 'Apple SD Gothic Neo', sans-serif" font-size="12" fill="#737373">Fluent Bit 사이드카</text><text x="32" y="352" text-anchor="start" font-family="'Pretendard Variable', Pretendard, 'Apple SD Gothic Neo', sans-serif" font-size="12" font-weight="400" fill="#737373">OpenSearch 직접 출력과</text><text x="32" y="372" text-anchor="start" font-family="'Pretendard Variable', Pretendard, 'Apple SD Gothic Neo', sans-serif" font-size="12" font-weight="400" fill="#737373">CloudWatch 사본도 둠</text><rect x="312" y="72" width="120" height="256" rx="6" fill="#fcfcfc"/><rect x="312" y="72" width="120" height="256" rx="6" fill="#ffffff" stroke="#0a0a0a" stroke-width="1"/><text x="372" y="198" text-anchor="middle" font-family="'Pretendard Variable', Pretendard, 'Apple SD Gothic Neo', sans-serif" font-size="16" font-weight="600" fill="#0a0a0a">OTel Collector</text><text x="372" y="216" text-anchor="middle" font-family="'Pretendard Variable', Pretendard, 'Apple SD Gothic Neo', sans-serif" font-size="12" fill="#737373">OTLP 수신</text><rect x="472" y="72" width="112" height="56" rx="6" fill="#fcfcfc"/><rect x="472" y="72" width="112" height="56" rx="6" fill="#ffffff" stroke="#0a0a0a" stroke-width="1"/><text x="528" y="98" text-anchor="middle" font-family="'Pretendard Variable', Pretendard, 'Apple SD Gothic Neo', sans-serif" font-size="16" font-weight="600" fill="#0a0a0a">Data Prepper</text><text x="528" y="116" text-anchor="middle" font-family="'Pretendard Variable', Pretendard, 'Apple SD Gothic Neo', sans-serif" font-size="12" fill="#737373">트레이스, 로그</text><rect x="648" y="72" width="152" height="56" rx="6" fill="#fcfcfc"/><rect x="648" y="72" width="152" height="56" rx="6" fill="rgba(10,10,10,0.05)" stroke="#737373" stroke-width="1"/><text x="724" y="98" text-anchor="middle" font-family="'Pretendard Variable', Pretendard, 'Apple SD Gothic Neo', sans-serif" font-size="16" font-weight="600" fill="#0a0a0a">OpenSearch</text><text x="724" y="116" text-anchor="middle" font-family="'Pretendard Variable', Pretendard, 'Apple SD Gothic Neo', sans-serif" font-size="12" fill="#737373">로그, 트레이스, 서비스 맵</text><rect x="648" y="272" width="152" height="56" rx="6" fill="#fcfcfc"/><rect x="648" y="272" width="152" height="56" rx="6" fill="rgba(10,10,10,0.05)" stroke="#737373" stroke-width="1"/><text x="724" y="298" text-anchor="middle" font-family="'Pretendard Variable', Pretendard, 'Apple SD Gothic Neo', sans-serif" font-size="16" font-weight="600" fill="#0a0a0a">Prometheus</text><text x="724" y="316" text-anchor="middle" font-family="'Pretendard Variable', Pretendard, 'Apple SD Gothic Neo', sans-serif" font-size="12" fill="#737373">메트릭(AMP)</text><rect x="848" y="172" width="136" height="56" rx="6" fill="#fcfcfc"/><rect x="848" y="172" width="136" height="56" rx="6" fill="#ffffff" stroke="#0a0a0a" stroke-width="1"/><text x="916" y="198" text-anchor="middle" font-family="'Pretendard Variable', Pretendard, 'Apple SD Gothic Neo', sans-serif" font-size="16" font-weight="600" fill="#0a0a0a">OpenSearch UI</text><text x="916" y="216" text-anchor="middle" font-family="'Pretendard Variable', Pretendard, 'Apple SD Gothic Neo', sans-serif" font-size="12" fill="#737373">조회 화면</text><rect x="464" y="392" width="120" height="56" rx="6" fill="#fcfcfc"/><rect x="464" y="392" width="120" height="56" rx="6" fill="#ffffff" stroke="#0a0a0a" stroke-width="1"/><text x="524" y="418" text-anchor="middle" font-family="'Pretendard Variable', Pretendard, 'Apple SD Gothic Neo', sans-serif" font-size="16" font-weight="600" fill="#0a0a0a">경보</text><text x="524" y="436" text-anchor="middle" font-family="'Pretendard Variable', Pretendard, 'Apple SD Gothic Neo', sans-serif" font-size="12" fill="#737373">Alertmanager, SNS</text><rect x="648" y="392" width="152" height="56" rx="6" fill="#fcfcfc"/><rect x="648" y="392" width="152" height="56" rx="6" fill="rgba(5,166,107,0.08)" stroke="#05a66b" stroke-width="1.2"/><text x="724" y="418" text-anchor="middle" font-family="'Pretendard Variable', Pretendard, 'Apple SD Gothic Neo', sans-serif" font-size="16" font-weight="600" fill="#05a66b">진단 에이전트</text><text x="724" y="436" text-anchor="middle" font-family="'Pretendard Variable', Pretendard, 'Apple SD Gothic Neo', sans-serif" font-size="12" fill="#737373">LLM 진단, 근거 검증</text><rect x="848" y="392" width="136" height="56" rx="6" fill="#fcfcfc"/><rect x="848" y="392" width="136" height="56" rx="6" fill="rgba(10,10,10,0.03)" stroke="rgba(10,10,10,0.30)" stroke-width="1"/><text x="916" y="418" text-anchor="middle" font-family="'Pretendard Variable', Pretendard, 'Apple SD Gothic Neo', sans-serif" font-size="16" font-weight="600" fill="#0a0a0a">Slack</text><text x="916" y="436" text-anchor="middle" font-family="'Pretendard Variable', Pretendard, 'Apple SD Gothic Neo', sans-serif" font-size="12" fill="#737373">경보, 진단 보고</text><rect x="120" y="192" width="73" height="16" rx="2" fill="#fcfcfc"/><text x="124" y="204" text-anchor="start" font-family="'Pretendard Variable', Pretendard, 'Apple SD Gothic Neo', sans-serif" font-size="12" font-weight="500" fill="#737373">stdout 로그</text><rect x="209" y="80" width="94" height="16" rx="2" fill="#fcfcfc"/><text x="256" y="92" text-anchor="middle" font-family="'Pretendard Variable', Pretendard, 'Apple SD Gothic Neo', sans-serif" font-size="12" font-weight="500" fill="#737373">트레이스, 메트릭</text><rect x="241" y="272" width="31" height="16" rx="2" fill="#fcfcfc"/><text x="256" y="284" text-anchor="middle" font-family="'Pretendard Variable', Pretendard, 'Apple SD Gothic Neo', sans-serif" font-size="12" font-weight="500" fill="#737373">로그</text><rect x="480" y="276" width="121" height="16" rx="2" fill="#fcfcfc"/><text x="540" y="288" text-anchor="middle" font-family="'Pretendard Variable', Pretendard, 'Apple SD Gothic Neo', sans-serif" font-size="12" font-weight="500" fill="#737373">메트릭(remote write)</text><rect x="900" y="128" width="31" height="16" rx="2" fill="#fcfcfc"/><text x="904" y="140" text-anchor="start" font-family="'Pretendard Variable', Pretendard, 'Apple SD Gothic Neo', sans-serif" font-size="12" font-weight="500" fill="#737373">조회</text><rect x="528" y="368" width="56" height="16" rx="2" fill="#fcfcfc"/><text x="532" y="380" text-anchor="start" font-family="'Pretendard Variable', Pretendard, 'Apple SD Gothic Neo', sans-serif" font-size="12" font-weight="500" fill="#737373">경보 규칙</text><rect x="728" y="368" width="53" height="16" rx="2" fill="#fcfcfc"/><text x="732" y="380" text-anchor="start" font-family="'Pretendard Variable', Pretendard, 'Apple SD Gothic Neo', sans-serif" font-size="12" font-weight="500" fill="#737373">1분 감시</text><line x1="32" y1="512" x2="968" y2="512" stroke="rgba(10,10,10,0.12)" stroke-width="0.8"/><text x="32" y="532" font-family="'Pretendard Variable', Pretendard, 'Apple SD Gothic Neo', sans-serif" font-size="12" font-weight="600" fill="#737373">범례</text><rect x="88" y="520" width="24" height="16" rx="4" fill="#ffffff" stroke="#0a0a0a" stroke-width="1"/><text x="120" y="532" font-family="'Pretendard Variable', Pretendard, 'Apple SD Gothic Neo', sans-serif" font-size="12" fill="#737373">수집, 조회, 경보</text><rect x="229.6" y="520" width="24" height="16" rx="4" fill="rgba(10,10,10,0.05)" stroke="#737373" stroke-width="1"/><text x="261.6" y="532" font-family="'Pretendard Variable', Pretendard, 'Apple SD Gothic Neo', sans-serif" font-size="12" fill="#737373">저장소</text><rect x="323.44" y="520" width="24" height="16" rx="4" fill="rgba(5,166,107,0.08)" stroke="#05a66b" stroke-width="1"/><text x="355.44" y="532" font-family="'Pretendard Variable', Pretendard, 'Apple SD Gothic Neo', sans-serif" font-size="12" fill="#737373">진단 에이전트</text><rect x="454.48" y="520" width="24" height="16" rx="4" fill="rgba(10,10,10,0.03)" stroke="rgba(10,10,10,0.30)" stroke-width="1"/><text x="486.48" y="532" font-family="'Pretendard Variable', Pretendard, 'Apple SD Gothic Neo', sans-serif" font-size="12" fill="#737373">외부 서비스</text></svg></main></body></html>
